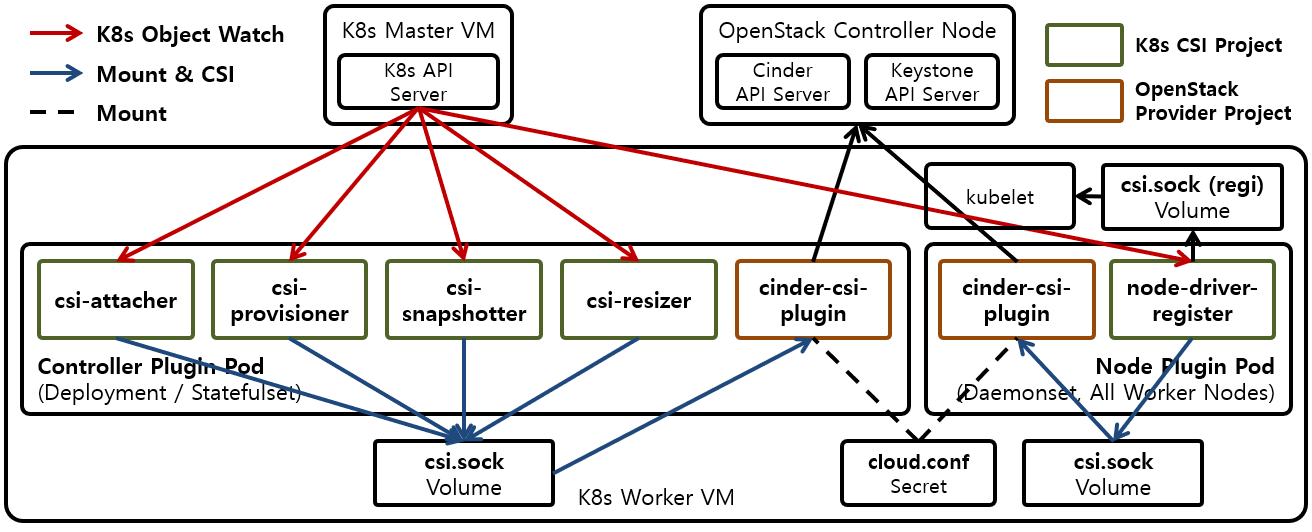
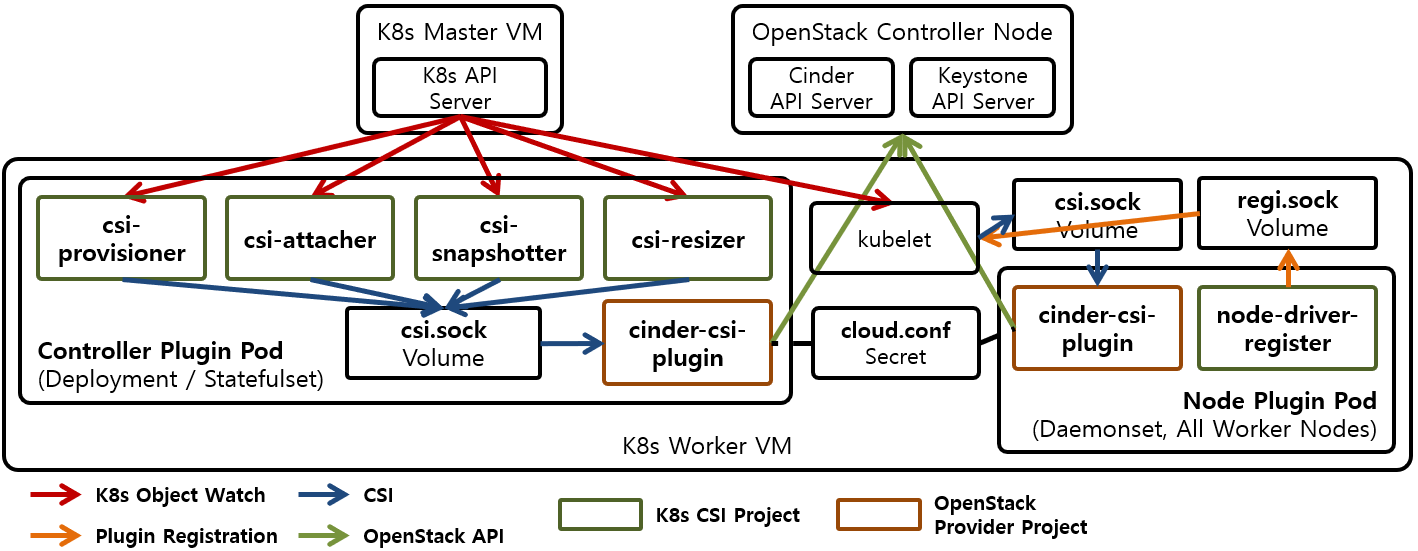
Update

diff --git a/_docs/theory_analysis/Kubernetes_OpenStack_Cinder_CSI_Plugin.md b/_docs/theory_analysis/Kubernetes_OpenStack_Cinder_CSI_Plugin.md
@@ -13,22 +13,22 @@ Kubernetes와 동작하는 OpenStack Cinder CSI(Container Storage Interface Plug
 
 ![[그림 1] Kubernetes OpenStack Cinder CSI Plugin]({{site.baseurl}}/images/theory_analysis/Kubernetes_OpenStack_Cinder_CSI_Plugin/OpenStack_Cinder_CSI_Plugin.PNG)
 
-[그림 1]은 Kubernetes와 동작하는 OpenStack Cinder CSI Plugin을 나타내고 있다. **Cinder CSI Plugin은 CSI Spec의 Controller Plugin 역활과 Node Plugin 역활 모두 수행가능하다.** 따라서 Cinder CSI Plugin은 CSI Spec의 Identity Service, Controller Service, Node Service 3가지 Interface를 지원한다. Cinder CSI Plugin중에서 Controller Plugin으로 동작하는 것은 Controller Plugin Pod에서 동작하고, Node Plugin으로 동작하는 것은 Node Plugin Pod에서 동작한다. Controller Plugin Pod은 K8s의 Deployment 또는 Statefulset에 소속되어 있고, Node Plugin Pod은 Daemonset에 소속되어 모든 Worker Node에서 동작한다.
+[그림 1]은 Kubernetes와 동작하는 OpenStack Cinder CSI Plugin을 나타내고 있다. **Cinder CSI Plugin은 CSI Spec의 Controller Plugin 역활과 Node Plugin 역활 모두 수행가능하다.** 따라서 Cinder CSI Plugin은 CSI Spec의 Identity Service, Controller Service, Node Service 3가지 Interface를 지원한다. Cinder CSI Plugin중에서 Controller Plugin으로 동작하는 것은 Controller Plugin Pod에서 동작하고, Node Plugin으로 동작하는 것은 Node Plugin Pod에서 동작한다. Controller Plugin Pod은 K8s의 Deployment 또는 Statefulset에 소속되어 있고, Node Plugin Pod은 K8s의 Daemonset에 소속되어 모든 Worker Node에서 동작한다.
 
-Controller Plugin Pod에서 동작하는 App들은 cinder-csi-plugin, csi-provisioner, csi-attacher, csi-snapshotter, csi-resizer가 있으며 각각의 Container 안에서 동작한다. 각 App의 역활은 다음과 같다.
+Controller Plugin Pod에서 동작하는 App들은 cinder-csi-plugin, csi-provisioner, csi-attacher, csi-snapshotter, csi-resizer가 있으며 각각의 Container 안에서 동작한다. HA (High Availability)를 위해서 Controller Plugin Pod이 다수가 동작하는 경우, Controller Plugin Pod의 cinder-csi-plugin App을 제외한 App의 경우 Active-Standby 형태로 동작한다. 각 App의 역활은 다음과 같다.
 
-* cinder-csi-plugin : Controller Plugin 역활을 수행하는 Cinder CSI Plugin을 나타낸다. csi.sock Domain Socket을 통해서 Controller Plugin Pod의 다른 App으로부터 전송되는 요청에 따라서 Cinder를 제어하는 역활을 수행한다. 요청은 CSI의 Identity Service과 Controller Service Interface를 통해서 이루어진다.
-* csi-attacher : 
-* csi-provisioner : 
-* csi-snapshotter : 
-* csi-resizer : 
+* cinder-csi-plugin : **Controller Plugin** 역활을 수행하는 Cinder CSI Plugin을 나타낸다. cinder-csi-plugin은 csi.sock 파일을 생성하고, 생성한 csi.sock Domain Socket을 통해서 전달되는 Controller Plugin Pod의 다른 App의 요청에 따라서 Cinder를 제어하는 역활을 수행한다. 요청은 CSI의 Identity Service와 Controller Service Interface를 통해서 이루어진다.
+* csi-provisioner : Kubernetes API Server로부터 PersistentVolumeClaim Object의 변화를 Watch하여 CSI Plugin에게 CSI CreateVolume/DeleteVolume 요청을 전송한다.
+* csi-attacher : Kubernetes API Server로부터 VolumeAttachment Object의 변화를 Watch하여 CSI Plugin에게 CSI ControllerPublish/ControllerUnpublish 요청을 전송한다.
+* csi-snapshotter : Kubernetes API Server로부터 Snapshot CRD (Custom Resource Definition)의 변화를 Watch하여 CSI Plugin에게 CSI CreateSnapshot/DeleteSnapshot 요청을 전송한다.
+* csi-resizer : Kubernetes API Server로부터 PersistentVolumeClaim Object의 변화를 Watch하여 CSI Plugin에게 CSI ControllerExpandVolume 요청을 전송한다.
 
 Node Plugin Pod에서 동작하는 App들은 cinder-csi-plugin, node-driver-register가 있으며 각각의 Container 안에서 동작한다. 각 App의 역활은 다음과 같다.
 
-* cinder-csi-plugin : Controller Plugin 역활을 수행하는 Cinder CSI Plugin을 나타낸다. csi.sock Domain Socket을 통해서 Controller Plugin Pod의 다른 App으로부터 전송되는 요청에 따라서 Cinder를 제어하는 역활을 수행한다. 요청은 CSI의 Identity Service과 Node Service Interface를 통해서 이루어진다.
+* cinder-csi-plugin : **Node Plugin** 역활을 수행하는 Cinder CSI Plugin을 나타낸다. cinder-csi-plugin은 csi.sock 파일을 생성하고, 생성한 csi.sock Domain Socket을 통해서 전달되는 kubelet의 요청에 따라서 Cinder를 제어하는 역활을 수행한다. 요청은 CSI의 Identity Service과 Node Service Interface를 통해서 이루어진다. kubelet은 Cinder Plugin에게 CSI NodeStageVolume/NodeUnstageVolume, CSI NodePublishVolume/NodeUnpublishVolume 4개의 요청을 전송한다.
 * node-driver-register : 
 
-cinder-csi-plugin은 OpenStack Provider Project에 소속되있고 나머지 App들은 Kubernetes CSI Project에 소속되어 있다.
+cinder-csi-plugin은 OpenStack Provider Project에 소속되있고 나머지 App들은 Kubernetes CSI Project에 소속되어 있다. 다른 CSI Plugin을 이용할 경우 cinder-csi-plugin만 원하는 CSI Plugin으로 교체하면 된다.
 
 ### 2. 참조
 
@@ -43,3 +43,4 @@ cinder-csi-plugin은 OpenStack Provider Project에 소속되있고 나머지 App
 * csi-resizer : [https://github.com/kubernetes-csi/external-resizer](https://github.com/kubernetes-csi/external-resizer)
 * node-driver-registrar : [https://github.com/kubernetes-csi/node-driver-registrar](https://github.com/kubernetes-csi/node-driver-registrar)
 * cinder-csi-plugin : [https://github.com/kubernetes/cloud-provider-openstack/blob/master/docs/using-cinder-csi-plugin.md](https://github.com/kubernetes/cloud-provider-openstack/blob/master/docs/using-cinder-csi-plugin.md)
+* Device plugin registration : [https://kubernetes.io/docs/concepts/extend-kubernetes/compute-storage-net/device-plugins/#device-plugin-registration](https://kubernetes.io/docs/concepts/extend-kubernetes/compute-storage-net/device-plugins/#device-plugin-registration)
